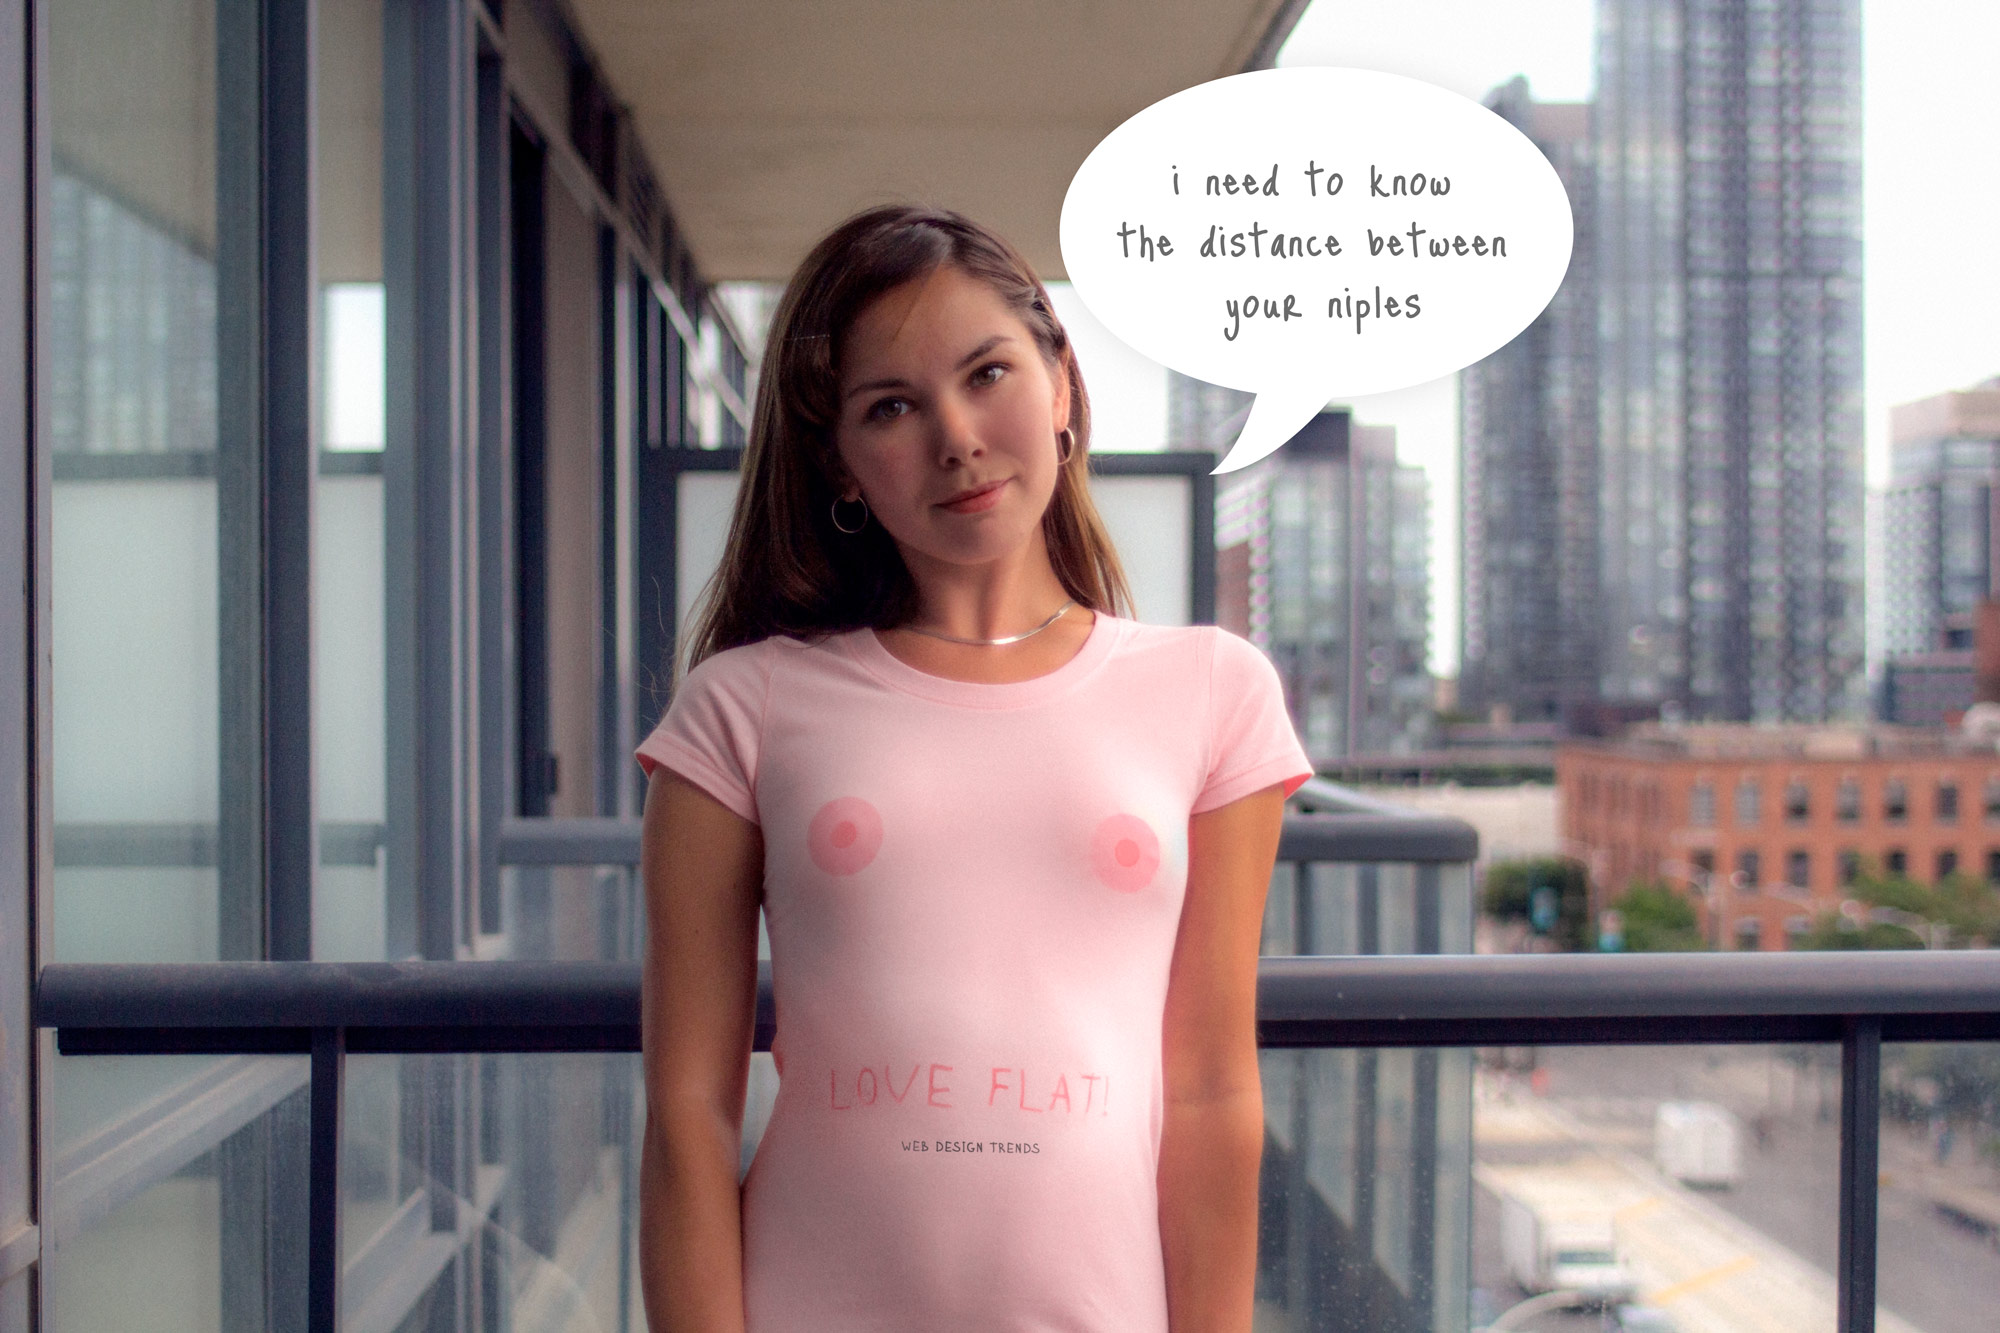
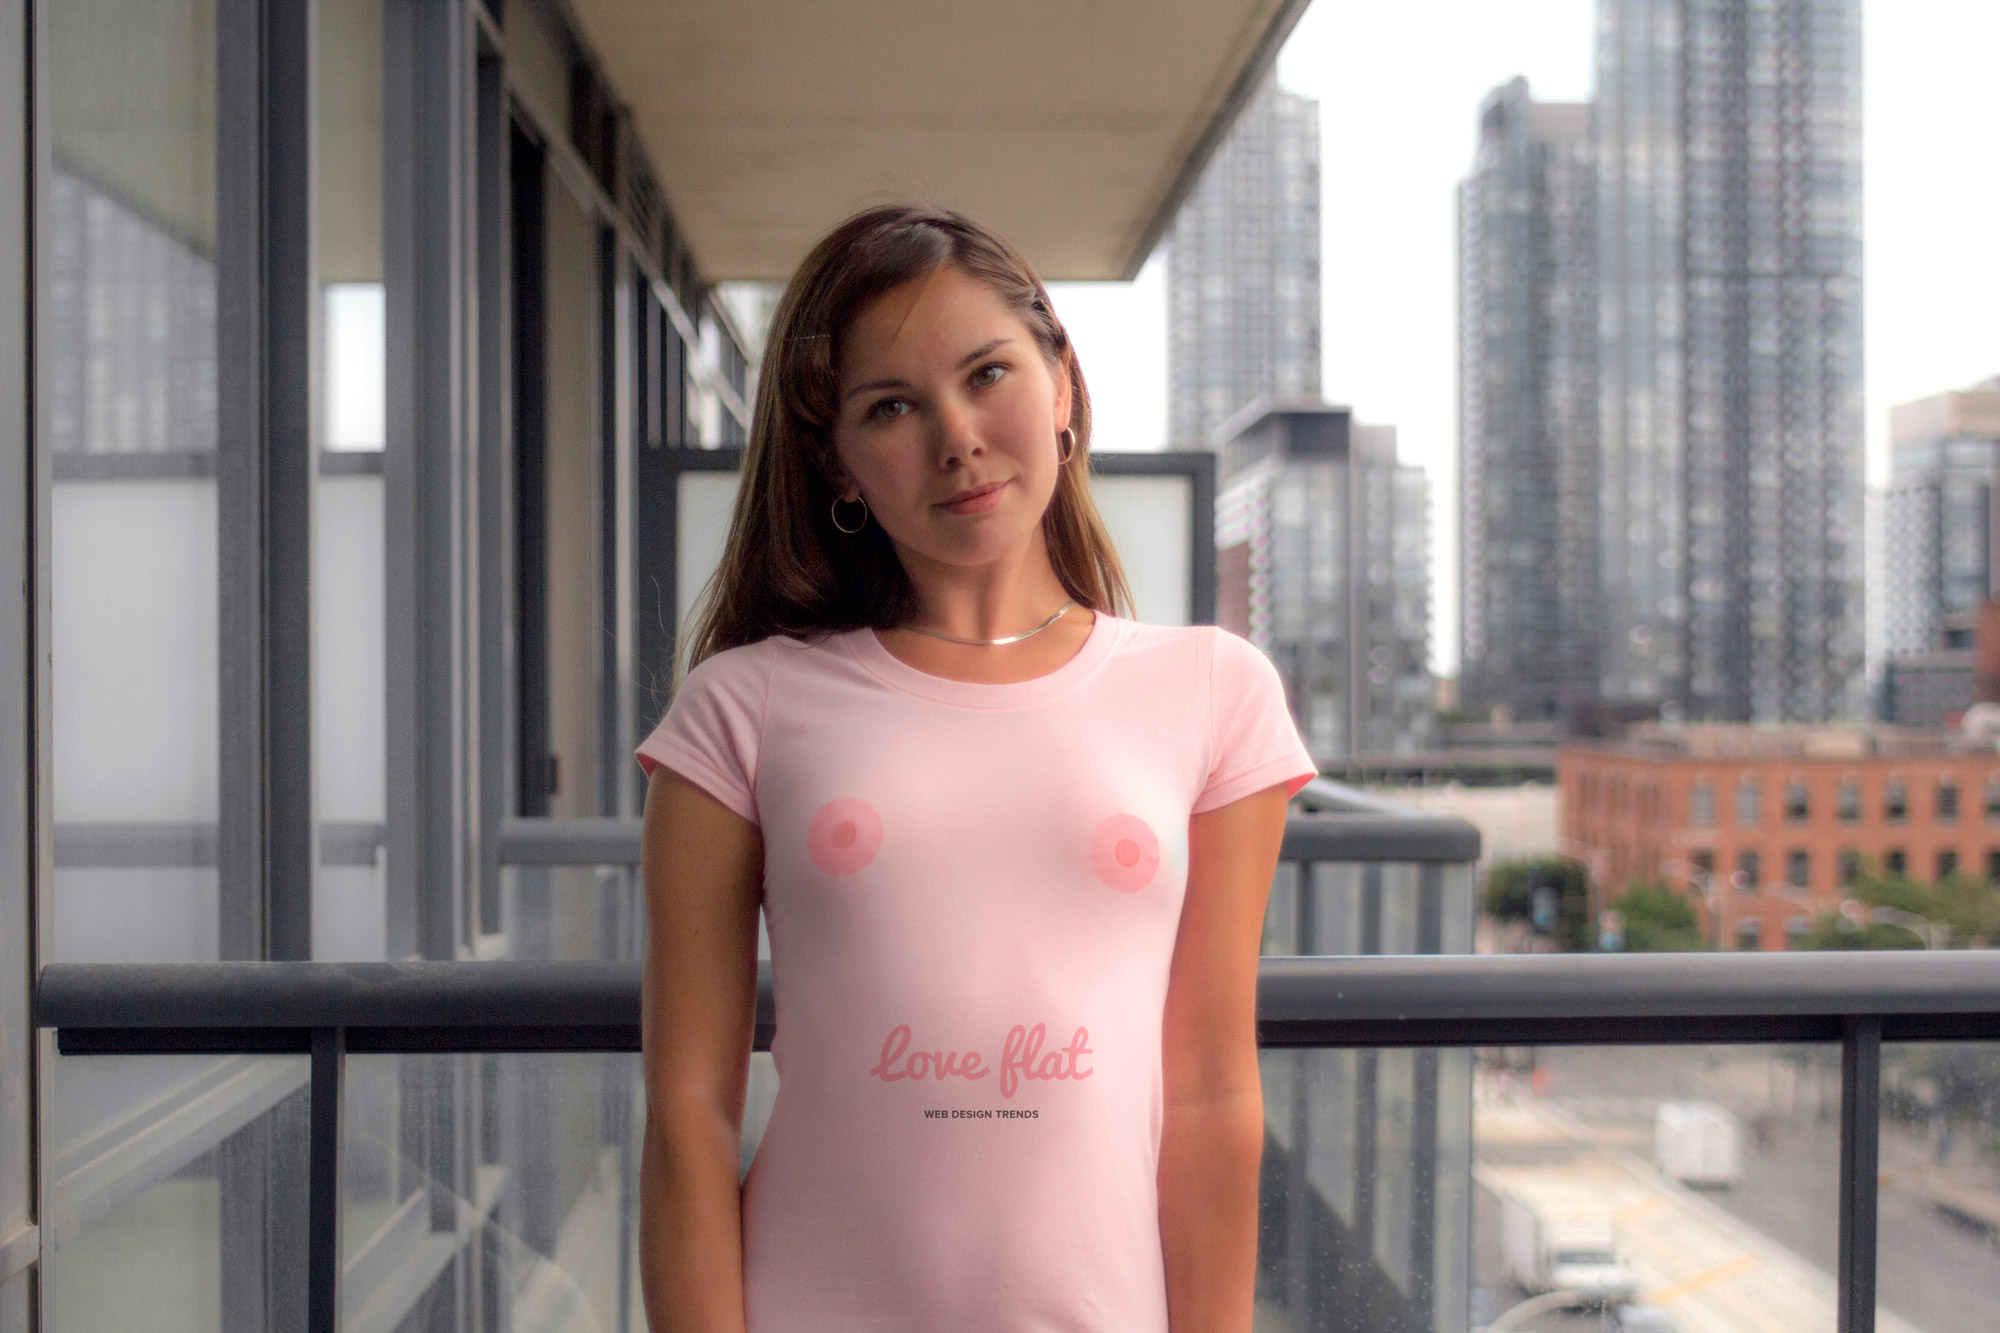
making it pretty
all good

diff --git a/css/flatstyle-oneway.css b/css/flatstyle-oneway.css
@@ -6,15 +6,22 @@ body
     height: 100%;
     width: 100%;
     margin: 0;
-	padding-top:7%;
+	padding-top:14em;
+	font-size: 14px;
 }
 body{
 	background-color:#ffdddd;
 } 
+@media (min-width:1200px){
+	body {font-size: 18px;}}
+
+@media (min-width:1600px){
+	body {font-size: 20px;}}
+
 #BoobsContainer {
-	width:50%;
+	width:60%;
 	
-	top:15%;
+	
 	left: 20%;
 	display:block;
 	min-width:600px;
@@ -36,33 +43,33 @@ body{
 	
 }
 .bigger {
-	width:150px;
-	height:150px;
+	width:12em;
+	height:12em;
 	background-color:#ffbebe;
 	
 
 }
 .smaller {
-	width:30px;
-	height:30px;
+	width:3em;
+	height:3em;
 	background-color:#ff9898;
-	border: solid 3px #ff8c8c;
+	border: solid 0.3em #ff8c8c;
 	position:relative; 
 	top: 50%;
 	left:50%;
-	margin-left: -17px;
-	margin-top: -17px;
+	margin-left: -1.7em;
+	margin-top: -1.7em;
 	display:block;
 }
 #tagline {
 	position:relative;
 	display:block;
 	margin:0 auto;
-	padding-top: 20%;
+	padding-top: 1.5em;
 	width: 600px;
-	font-family: 'Just Me Again Down Here', cursive;
+	font-family: 'Pacifico', cursive;
 	color:#ff8c8c;
-	font-size:120px;
+	font-size:6em;
 	text-align:center;
 	clear:both;
 }
@@ -79,8 +86,8 @@ body{
 	left:20px;
 }
 #bottomLine a{
-	font-family: 'Just Me Again Down Here', cursive;
-	font-size:18px;
+	font-family: Arial;
+	font-size:0.8em;
 	text-decoration:none;
 	padding-right:20px;
 	color:#666;

diff --git a/css/tee.css b/css/tee.css
@@ -1,7 +1,7 @@
 @charset "UTF-8";
 /* CSS Document */
 html {
-	background: url(../images/teecover.jpg) no-repeat top left fixed;
+	background: url(../images/teecover.jpg) no-repeat top center fixed;
 -webkit-background-size: cover;
 -moz-background-size: cover;
 -o-background-size: cover;
@@ -15,30 +15,30 @@ background-size: cover;
 	left:20px;
 }
 #bottomLine a{
-	font-family: 'Just Me Again Down Here', cursive;
-	font-size:18px;
+	font-family: Arial;
+	font-size:0.8em;
 	text-decoration:none;
 	padding-right:20px;
-	color:#666;
+	color:#FFF;
 }
 #bottomLine a:hover {
 	color:#ff8c8c;
 }
 #pinkButton {
-	position:absolute;
-	top:50%;
-	right:8%;
-	box-shadow: 0px 0px 20px #7d7e87;
+	position:fixed;
+	bottom: 20px;
+	right:20px;
+
 }
 #pinkButton a{
 	background-color:#ff98a3;
 	border-radius:5px;
-	font-family: 'Just Me Again Down Here', cursive;
-	font-size:30px;
+	font-family: 'Arial';
+	font-size:1em;
 	text-align:center;
 	color:#FFF;
 	display:block;
-	padding: 5px 20px;
+	padding: 0.5em 1em;
 	text-decoration:none;
 	border-bottom: solid 3px #bc787f;
 	
@@ -46,6 +46,7 @@ background-size: cover;
 #pinkButton a:hover {
 	background-color:#d5878f;
 	border-bottom: solid 3px #a86a71;
+	color: #FFF;
 	
 }
 /*#pinkButton a{

diff --git a/index.html b/index.html
@@ -4,7 +4,7 @@
 <meta charset="UTF-8">
 <title>Web Design Trends</title>
 <link href="css/flatstyle-oneway.css" rel="stylesheet" type="text/css">
-<link href='http://fonts.googleapis.com/css?family=Just+Me+Again+Down+Here' rel='stylesheet' type='text/css'>
+<link href='https://fonts.googleapis.com/css?family=Sarina|Molle:400italic|Pacifico|Chewy|Damion' rel='stylesheet' type='text/css'>
 <link rel="icon" type="image/png" href="favicon.png">
 <script>
   (function(i,s,o,g,r,a,m){i['GoogleAnalyticsObject']=r;i[r]=i[r]||function(){
@@ -26,10 +26,12 @@
         <div id="right" class="circle bigger">
         	<div class="circle smaller"></div>
         </div>
-        <div id="tagline"><a href="tee.html">Love Flat</a></div>
+        <div id="tagline"><a href="tee.html">Love flat</a></div>
+
     </div>
     
-    <div id="bottomLine"><a href="http://www.twitter.com/lyadova">@lyadova</a> <a href="http://www.fb.com/lyadovadesign">lyadova design</a>
+    <div id="bottomLine"><a href="http://www.twitter.com/lyadova">@lyadova</a> <a href="http://www.lyadova.com">lyadova design</a>
+    
    
 </body>
 </html>

diff --git a/tee.html b/tee.html
@@ -20,10 +20,9 @@
 </head>
 
 <body>
-	<div id="pinkButton">
-    	<a href="#">I want it all the same</a>
-    </div>
+	
     
-    <div id="bottomLine"><a href="http://www.twitter.com/lyadova">@lyadova</a> <a href="http://www.fb.com/lyadovadesign">lyadova design</a>
+    <div id="bottomLine"><a href="http://www.twitter.com/lyadova">@lyadova</a> <a href="www.lyadova.com">lyadova design</a>
+    <div id="pinkButton"><a href="mailto:info@lyadova.com?Subject=I want the shirt">I want this shirt</a> 
 </body>
 </html>
